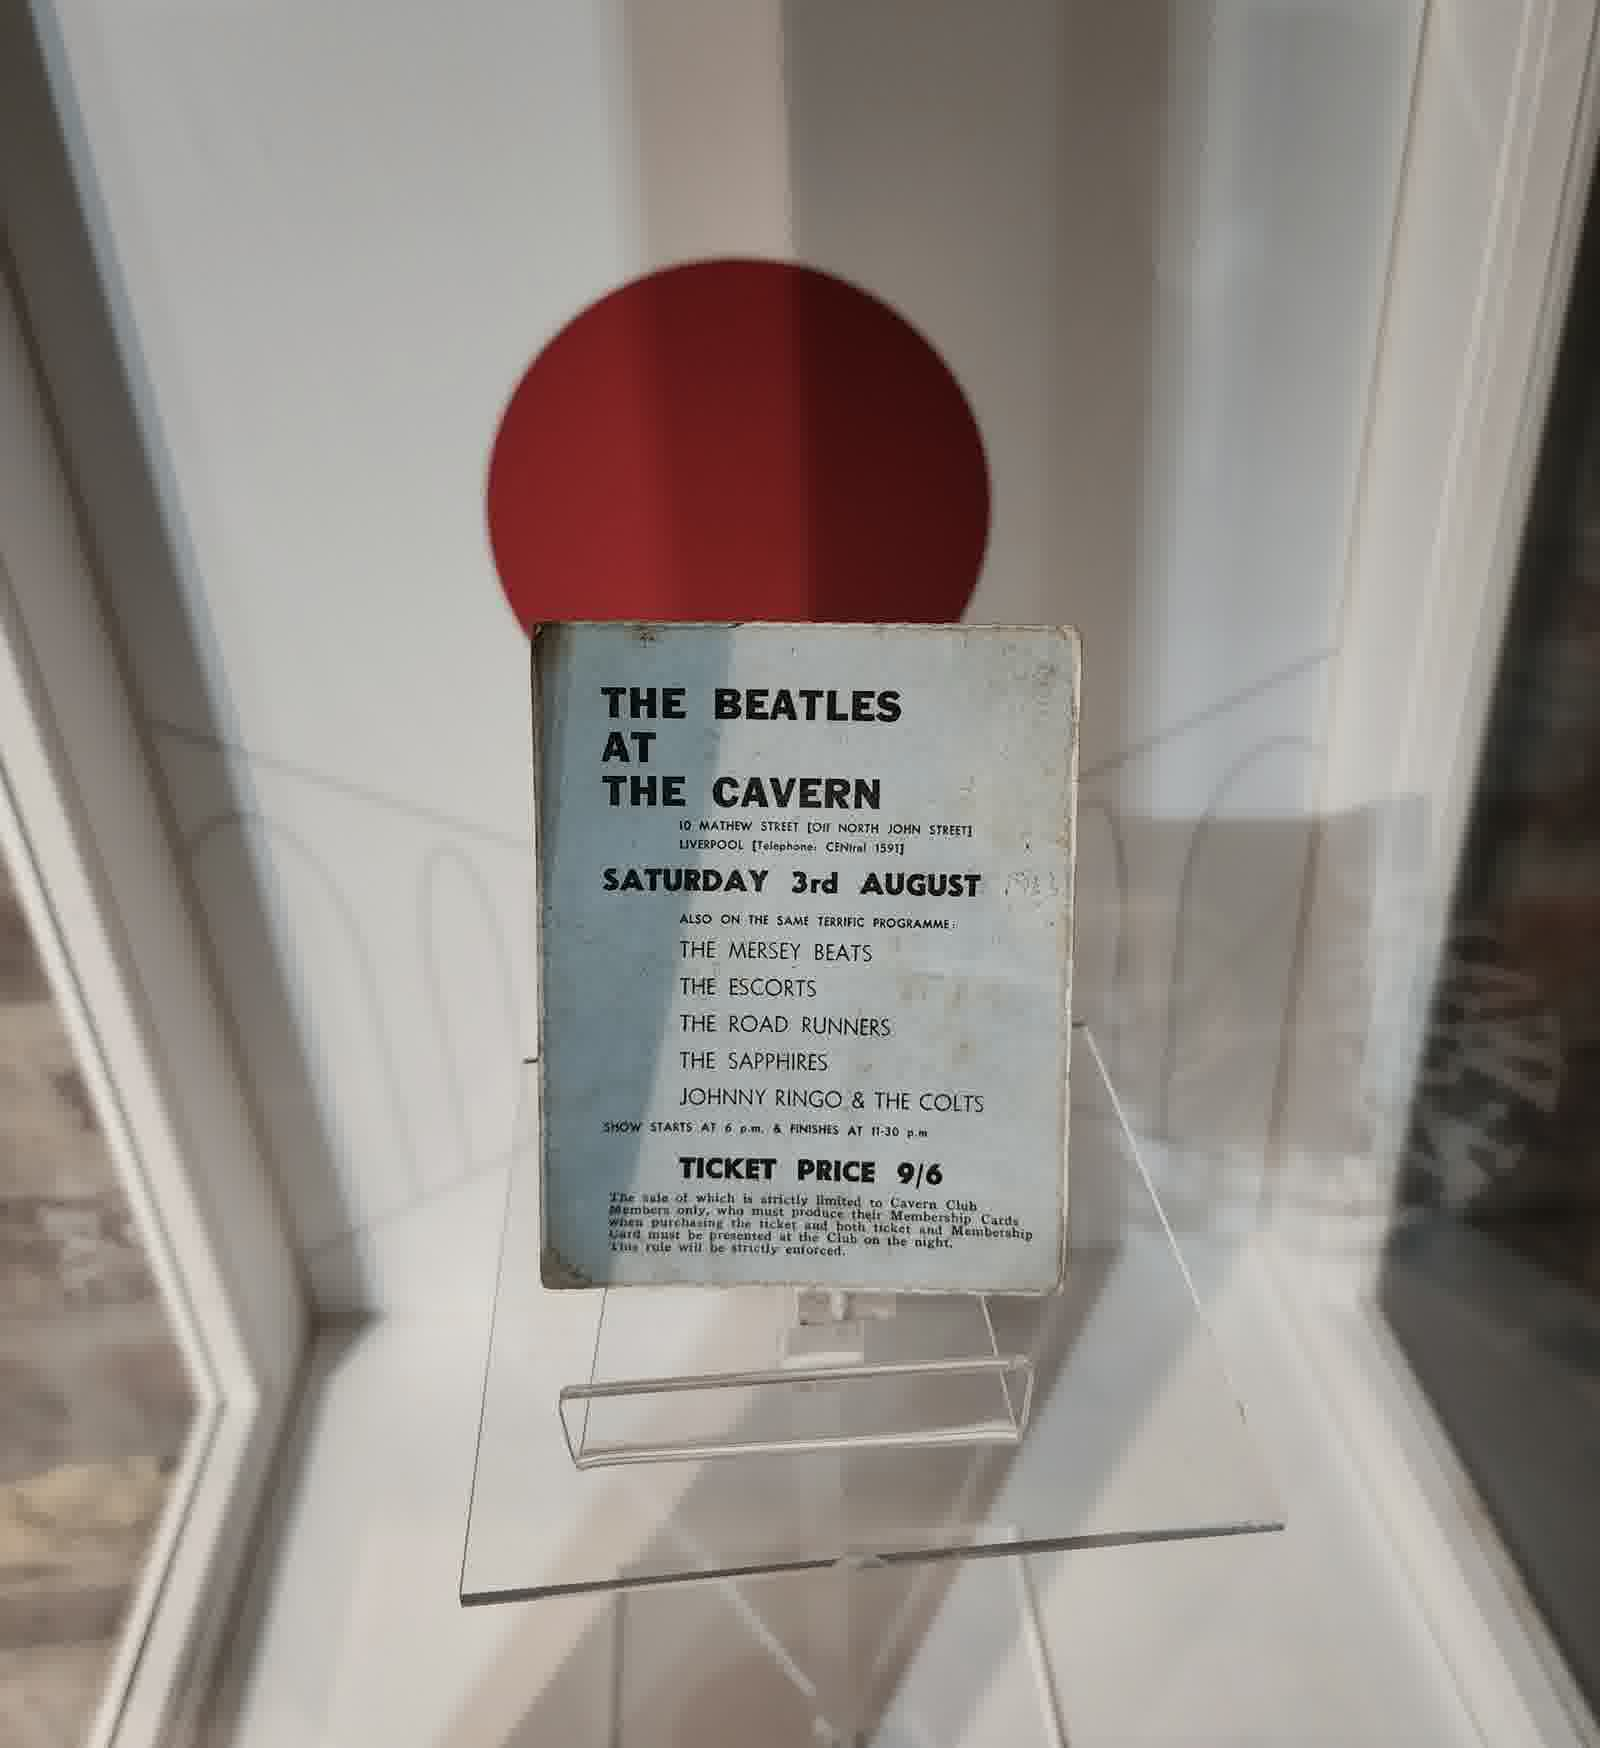
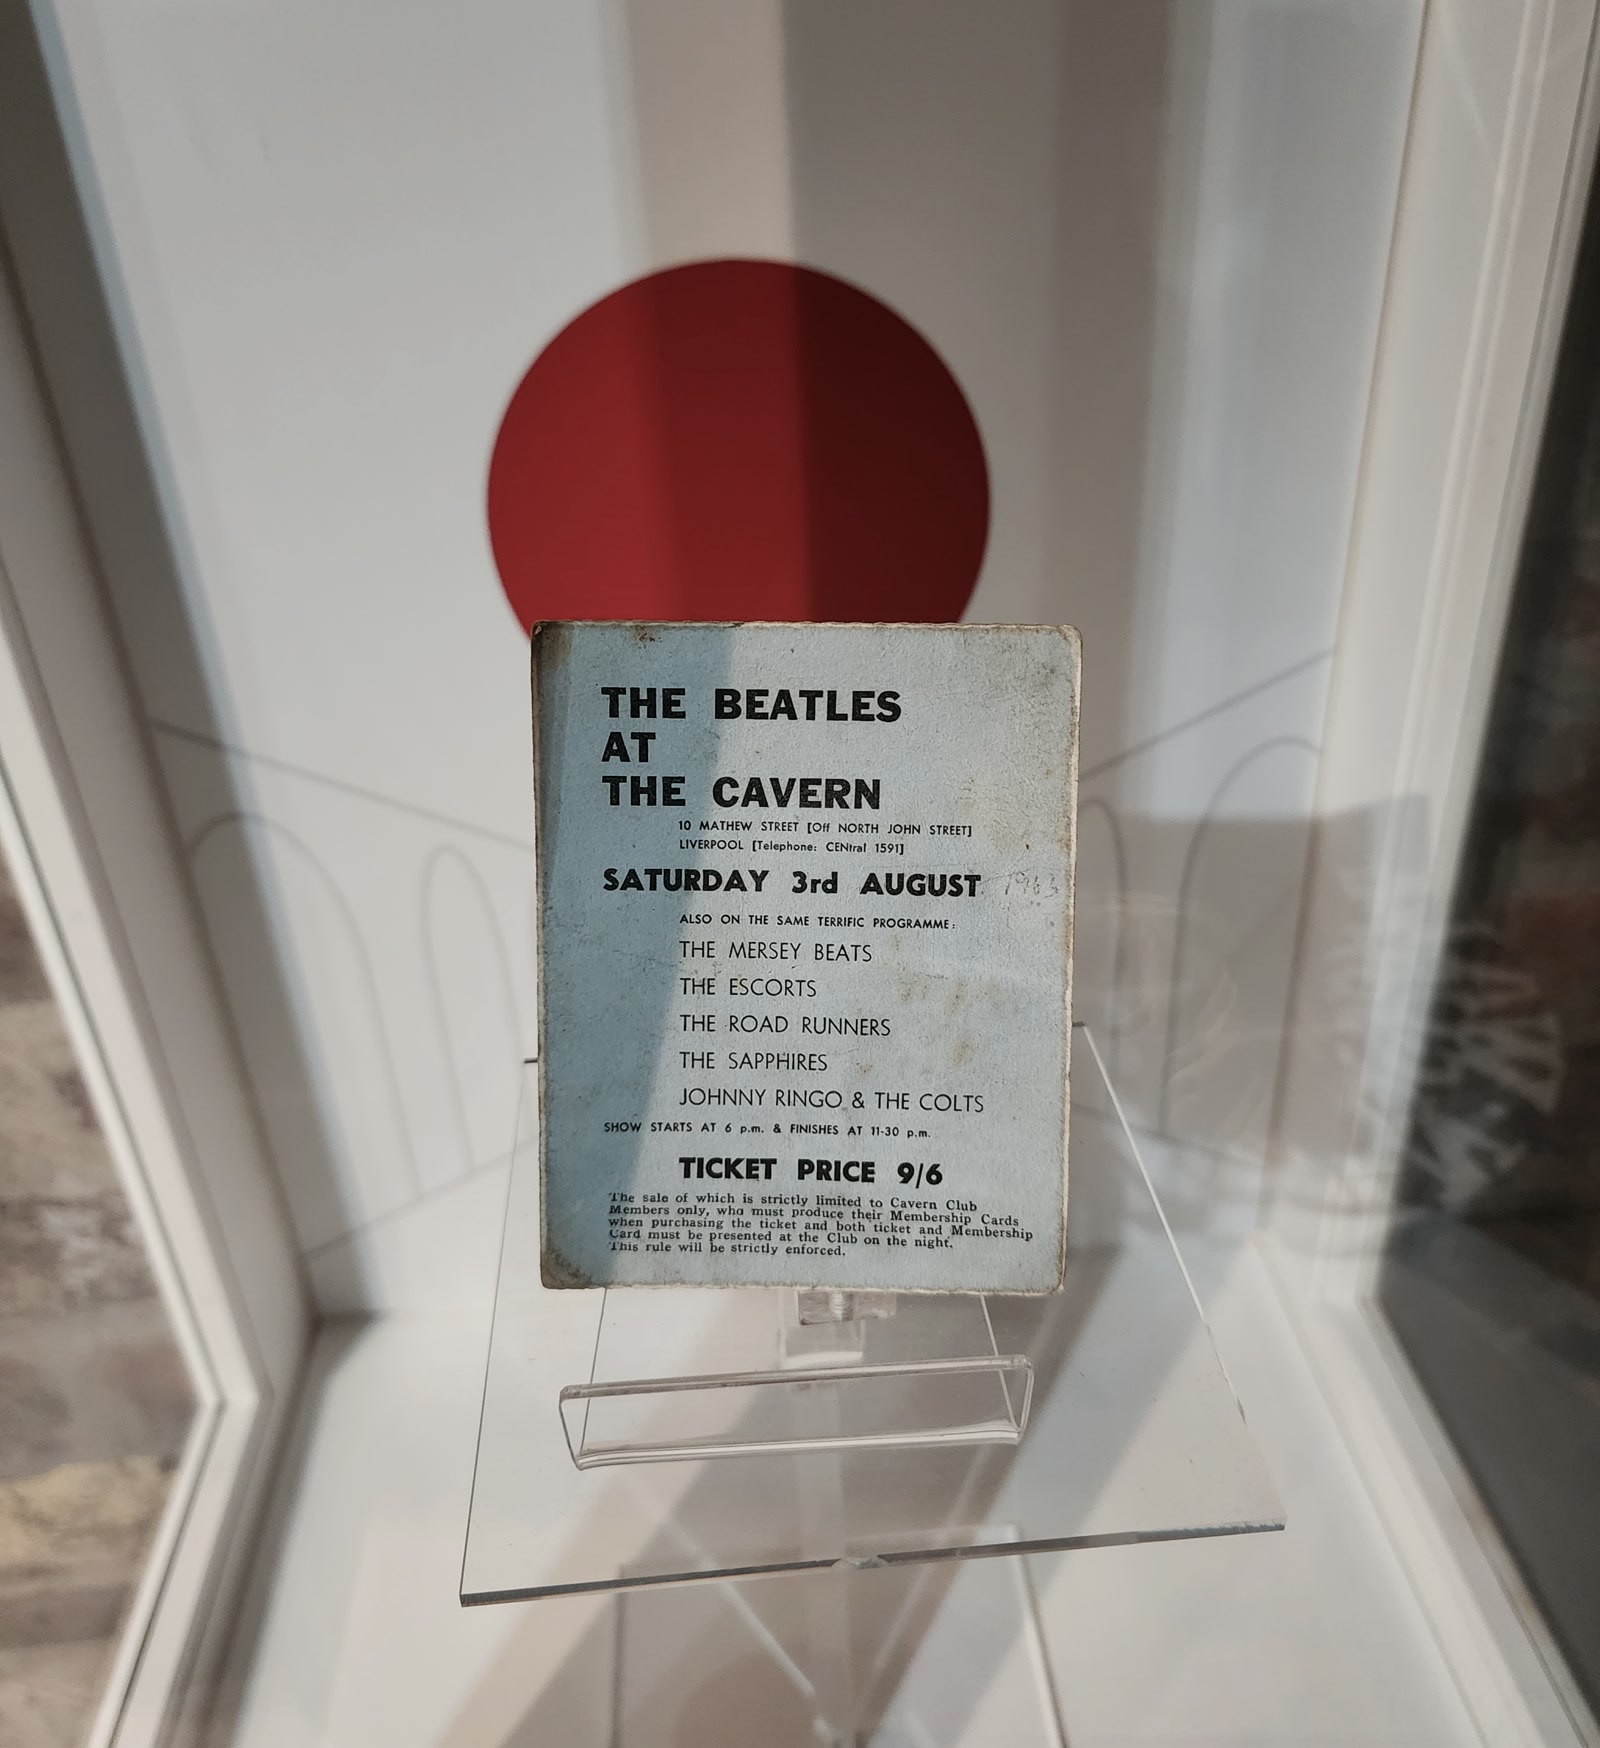
add: photo galleries with optimized images

Changed region(s): [[0.375, 0.4325, 0.5625, 0.6487], [0.375, 0.6796, 0.625, 0.7105]]

diff --git a/_albums/2025-07-02-albert-dock.md b/_albums/2025-07-02-albert-dock.md
@@ -1,0 +1,25 @@
+---
+title: "Royal Albert Dock, Liverpool"
+date: 2025-07-02
+layout: album-detail
+tags: ["liverpool"]
+location: "Royal Albert Dock, Liverpool"
+excerpt: ""
+photos:
+  - image: "/assets/images/photos/full/2025/07/20250702-20250702-122825.jpg"
+  - image: "/assets/images/photos/full/2025/07/20250702-20250702-163621.jpg"
+  - image: "/assets/images/photos/full/2025/07/20250702-20250702-163957-1-.jpg"
+  - image: "/assets/images/photos/full/2025/07/20250702-20250702-172645-1-.jpg"
+  - image: "/assets/images/photos/full/2025/07/20250702-20250702-172808-1-.jpg"
+  - image: "/assets/images/photos/full/2025/07/20250702-20250702-174402.jpg"
+  - image: "/assets/images/photos/full/2025/07/20250702-20250702-190015-1-.jpg"
+  - image: "/assets/images/photos/full/2025/07/20250702-20250702-190935-1-.jpg"
+  - image: "/assets/images/photos/full/2025/07/20250702-20250702-191436.jpg"
+  - image: "/assets/images/photos/full/2025/07/20250702-20250702-191608.jpg"
+  - image: "/assets/images/photos/full/2025/07/20250702-20250702-191743.jpg"
+  - image: "/assets/images/photos/full/2025/07/20250702-20250702-191935.jpg"
+  - image: "/assets/images/photos/full/2025/07/20250702-20250702-191948.jpg"
+  - image: "/assets/images/photos/full/2025/07/20250702-20250702-192925.jpg"
+  - image: "/assets/images/photos/full/2025/07/20250703-20250703-160007.jpg"
+  - image: "/assets/images/photos/full/2025/07/20250703-20250703-162430-1-.jpg"
+---
